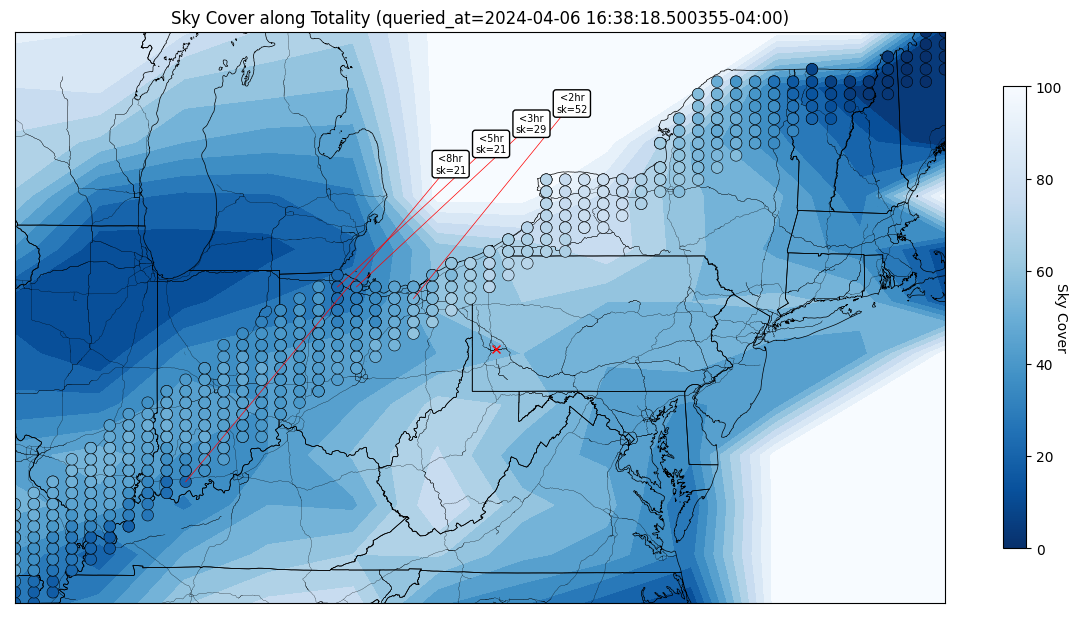
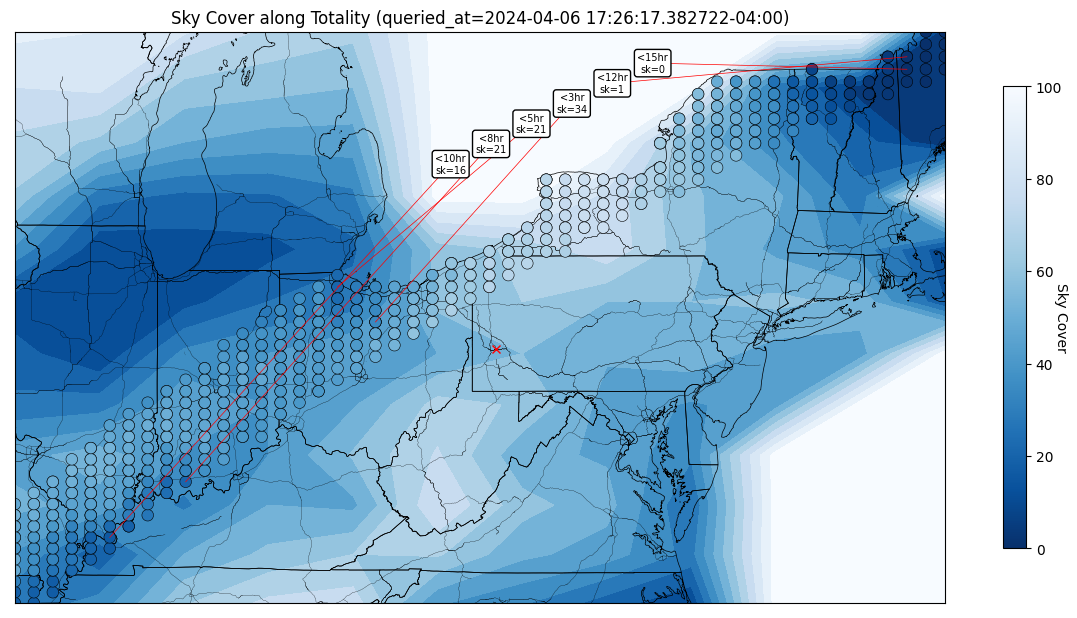
Automated map update

diff --git a/README.md b/README.md
@@ -2,7 +2,9 @@ The last sky cover plot generated:
 ![cover](cover.png)
 
 The best targets by hour:
+ - Less than 10 hours: (37.17551, 37.17551) cover: 16
  - Less than 8 hours: (38.15510, 38.15510) cover: 21
  - Less than 5 hours: (41.48571, 41.48571) cover: 21
- - Less than 3 hours: (41.48571, 41.48571) cover: 29
- - Less than 2 hours: (41.28980, 41.28980) cover: 52
+ - Less than 3 hours: (40.89796, 40.89796) cover: 34
+ - Less than 12 hours: (45.20816, 45.20816) cover: 1
+ - Less than 15 hours: (45.01224, 45.01224) cover: 0
